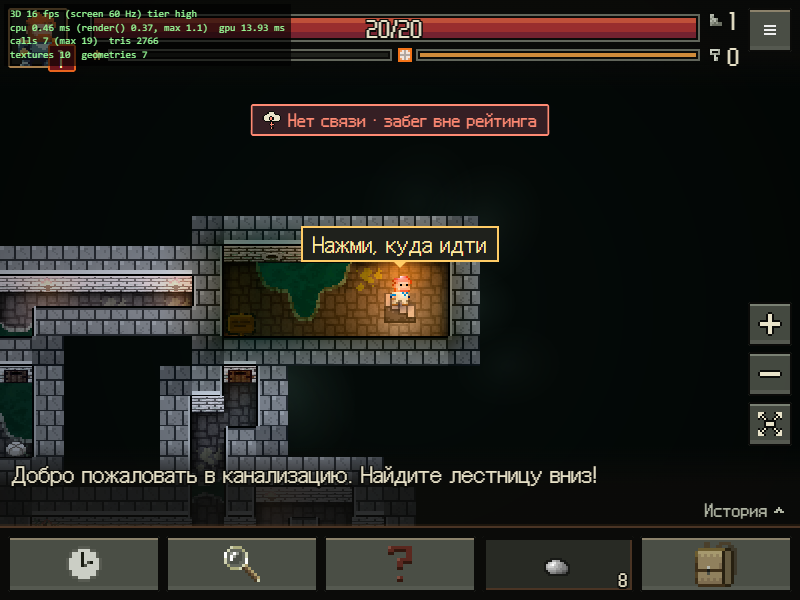
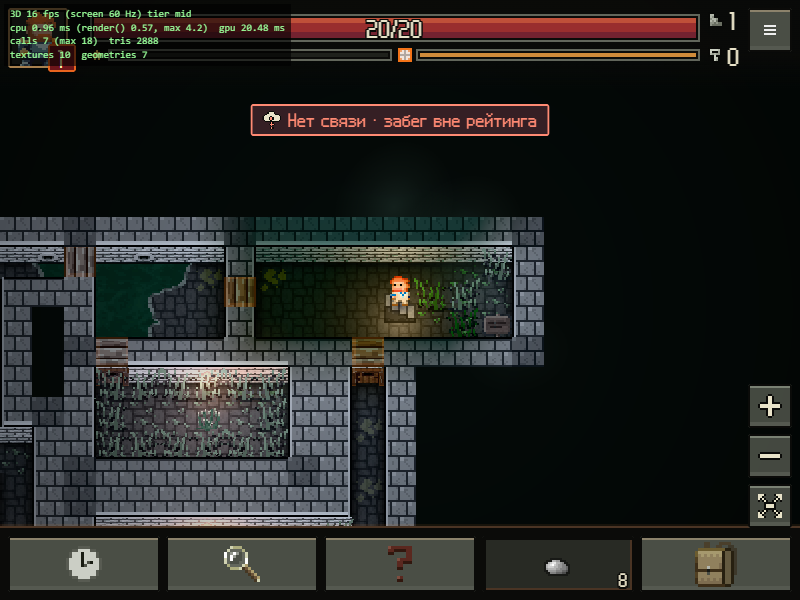
UX fixes screenshots: Settings (RU and EN, phone and desktop), sewers and prison at min/default/max brightness, doors, explored before/after

diff --git a/packages/client/src/r3d/fogofwar.ts b/packages/client/src/r3d/fogofwar.ts
@@ -14,7 +14,7 @@ export const FOG_REMEMBERED = 0.55;
  * What a remembered cell keeps of the look it has in the light (a share of its own colour, added in the shader, cool and washed out
  * so it still differs from what is in sight), and how strong a baked pool of fire light is at its middle.
  */
-export const MEMORY_LIFT = 0.8;
+export const MEMORY_LIFT = 0.6;
 export const POOL_STRENGTH = 0.85;
 const FOG_REVEAL_MS = 70;
 const FOG_FORGET_MS = 260;
